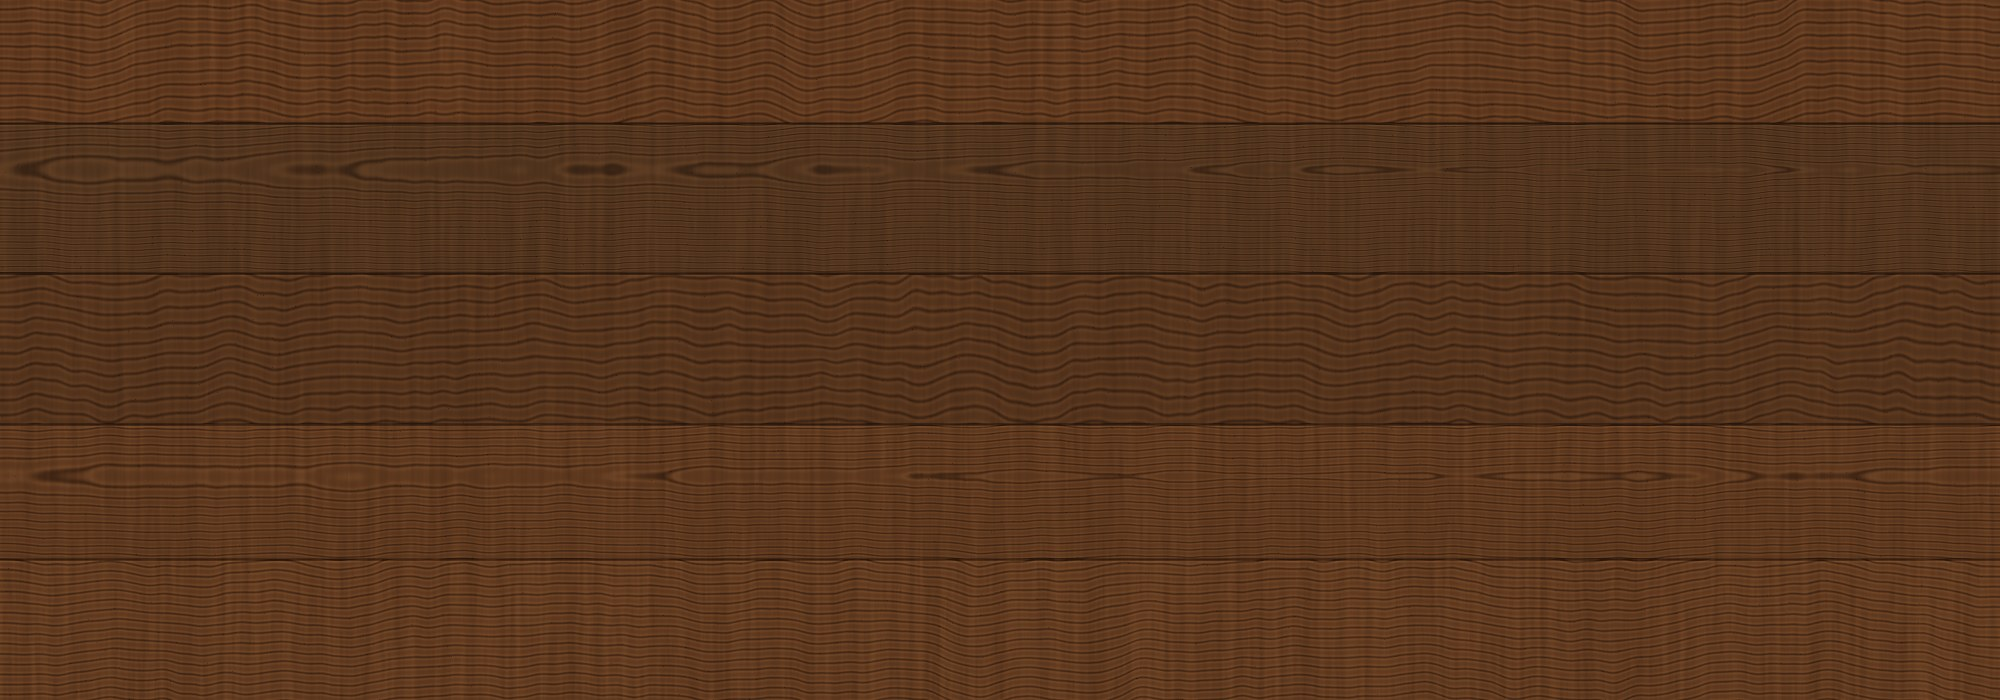
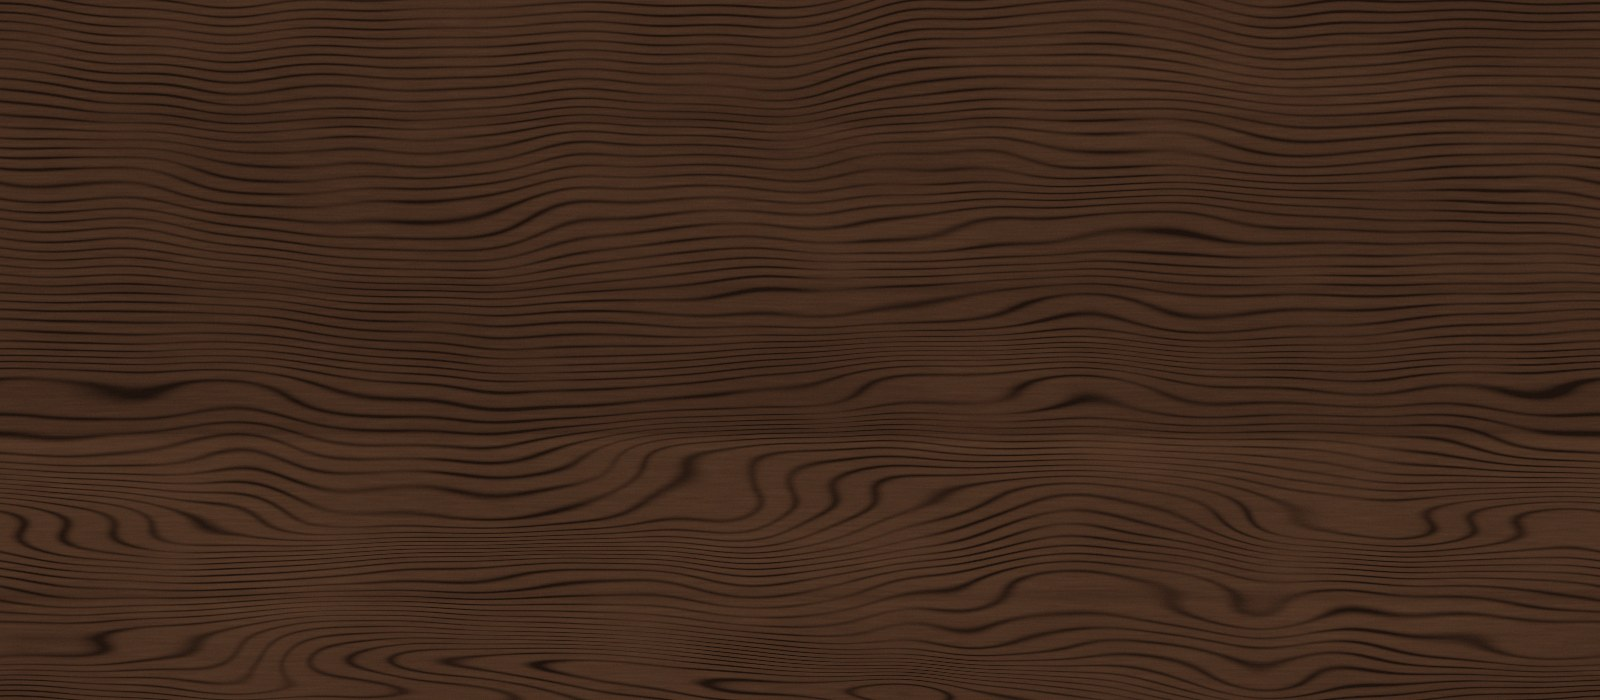
Seamless photorealistic walnut for CTA band
Rebuilt the texture with FFT-based tileable noise so it is mathematically
seamless in x (no cross-fade artifacts), tuned to a dark walnut reference:
fine varied grain, soft board bands, broad tonal zones, deep low-saturation
tone. CSS now repeats it horizontally at auto 100% so it never stretches, and
the scrim drops .34 -> .18 so the grain reads. Cream text contrast 10.7:1 min.

diff --git a/style.css b/style.css
@@ -104,7 +104,13 @@ section{padding:4.2rem 0}
 .val p{font-size:.94rem}
 
 /* CTA band */
-.cta-band{background:linear-gradient(rgba(28,16,8,.34),rgba(28,16,8,.34)),url('img/wood-grain.jpg') center/cover no-repeat,#2c1a0e;text-align:center;padding:3.9rem 0}
+.cta-band{
+  background-color:#2a1a12;
+  background-image:linear-gradient(rgba(28,16,8,.18),rgba(28,16,8,.18)),url('img/wood-grain.jpg');
+  background-repeat:no-repeat,repeat-x;
+  background-position:center,center;
+  background-size:cover,auto 100%;
+  text-align:center;padding:3.9rem 0}
 .cta-band h2{color:var(--cream);text-shadow:0 1px 4px rgba(0,0,0,.5)}
 .cta-band p{color:rgba(250,245,233,.9);max-width:56ch;margin:.7rem auto 1.6rem;text-shadow:0 1px 3px rgba(0,0,0,.45)}
 .cta-band .btn{background:var(--cream);color:var(--brown);border-color:var(--cream)}
